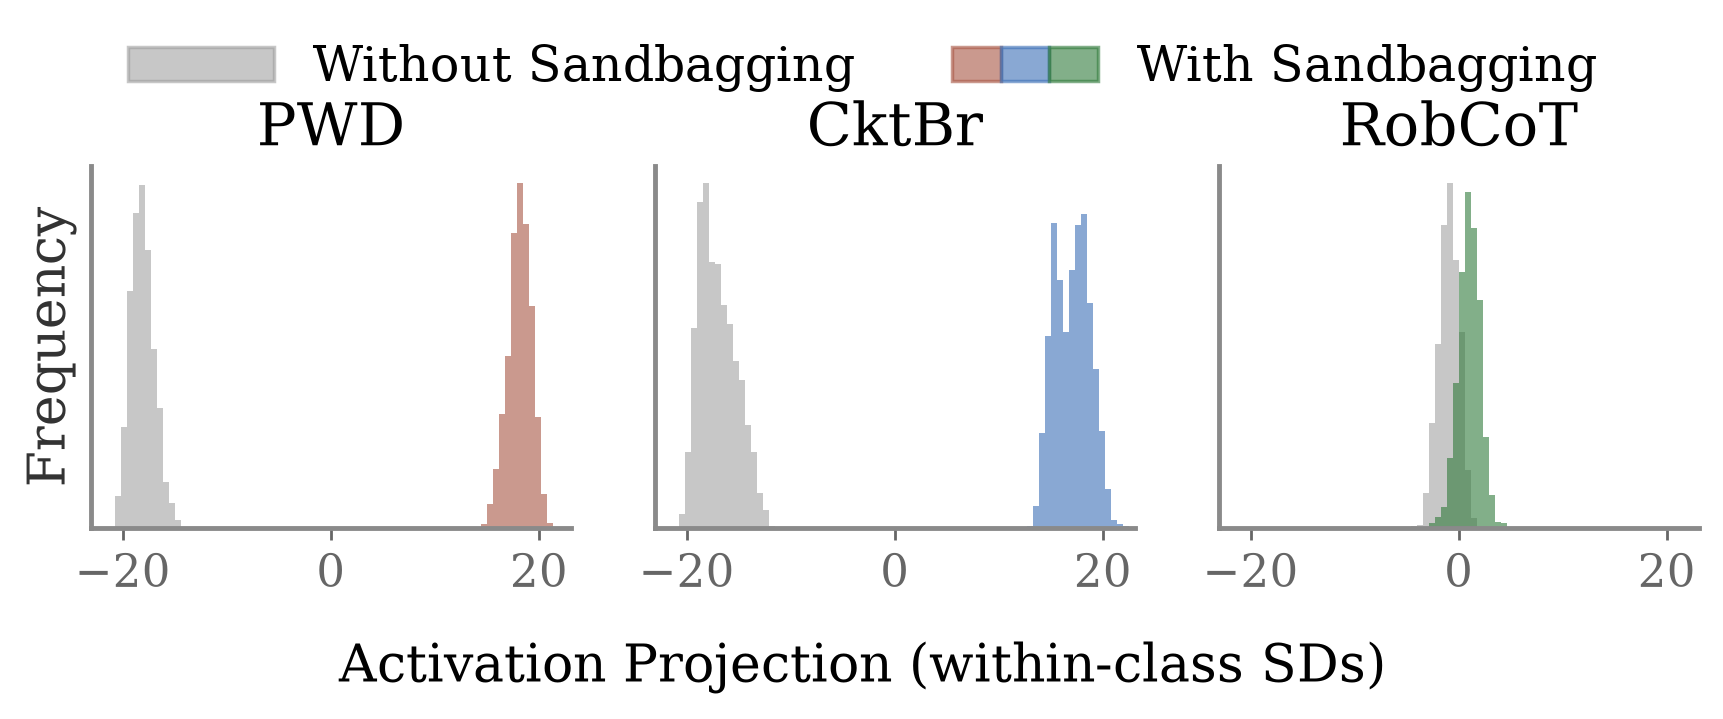
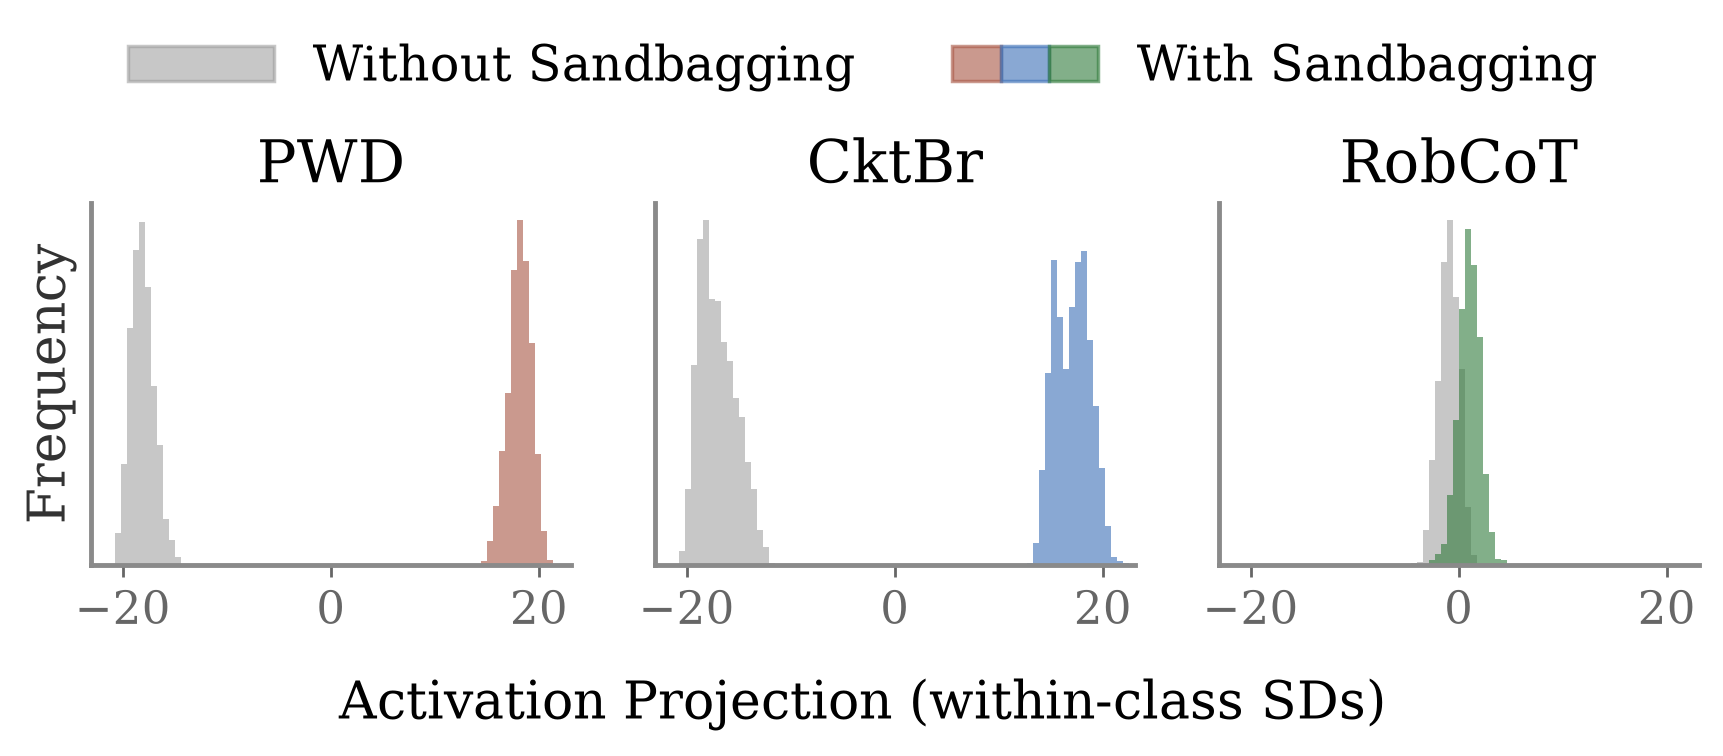
Compact activation figure: raise the top legend clear of the panel titles
Claude-Session: https://claude.ai/code/session_01Shod6oNkjDx2HQWJNFJ4wG

diff --git a/experiments/activation_figure.py b/experiments/activation_figure.py
@@ -237,7 +237,7 @@ def render_histograms(proj, *, layer: int, out_dir: Path, tag: str) -> Path:
     with_ = tuple(Patch(color=c, alpha=0.6) for _, _, c in hist_arms)
     fig.legend([without, with_], ["Without Sandbagging", "With Sandbagging"],
                handler_map={tuple: HandlerTuple(ndivide=None, pad=0)}, handlelength=3.0,
-               loc="upper center", ncol=2, frameon=False, bbox_to_anchor=(0.5, 1.12))
+               loc="upper center", ncol=2, frameon=False, bbox_to_anchor=(0.5, 1.18))
     fig.tight_layout(pad=0.4, w_pad=1.0)
     out_dir.mkdir(parents=True, exist_ok=True)
     for ext in ("pdf", "png"):
